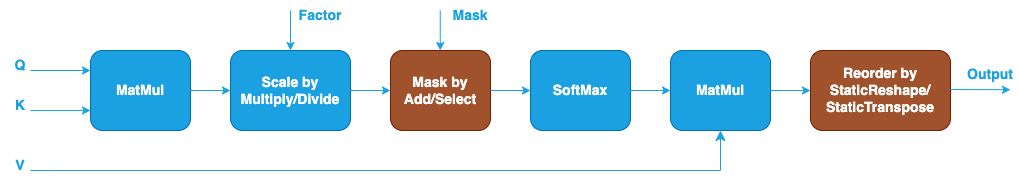
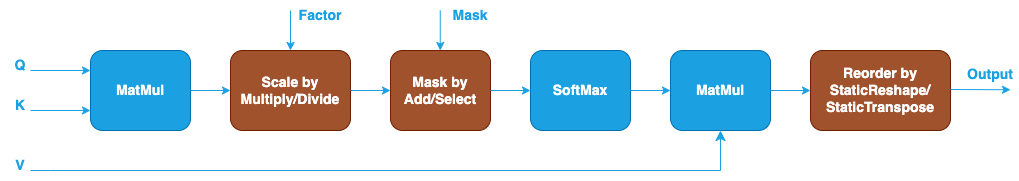
doc: graph: sdpa: scale is optional now

Changed region(s): [[0.213, 0.2762, 0.3651, 0.7459]]

diff --git a/doc/graph/sdpa.md b/doc/graph/sdpa.md
@@ -40,11 +40,11 @@ optional.
 
 1. The first MatMul calculates the dot products between Query and Key. See
    [MatMul](@ref dev_guide_op_matmul) operation in Graph API.
-2. The Scale node scales the output of the first MatMul with a scaling factor.
-   It can be constructed by [Multiply](@ref dev_guide_op_multiply) or
-   [Divide](@ref dev_guide_op_divide) operation in Graph API. The scaling factor
-   is given by users as an input of SDPA. \f$\sqrt{d_k}\f$ in the formula is not
-   considered as part of the SDPA pattern as it is constant.
+2. The Scale node is optional and is used to scale the output of the first
+   MatMul with a scaling factor. It can be constructed by [Multiply](@ref dev_guide_op_multiply)
+   or [Divide](@ref dev_guide_op_divide) operation in Graph API. The scaling
+   factor is given by users as an input of SDPA. \f$\sqrt{d_k}\f$ in the formula
+   is not considered as part of the SDPA pattern as it is constant.
 3. The Mask node is optional and is used to apply an attention mask to the
    output of the previous Scale node. It can be constructed by [Add](@ref dev_guide_op_add)
    or [Select](@ref dev_guide_op_select) operation in Graph API for different
